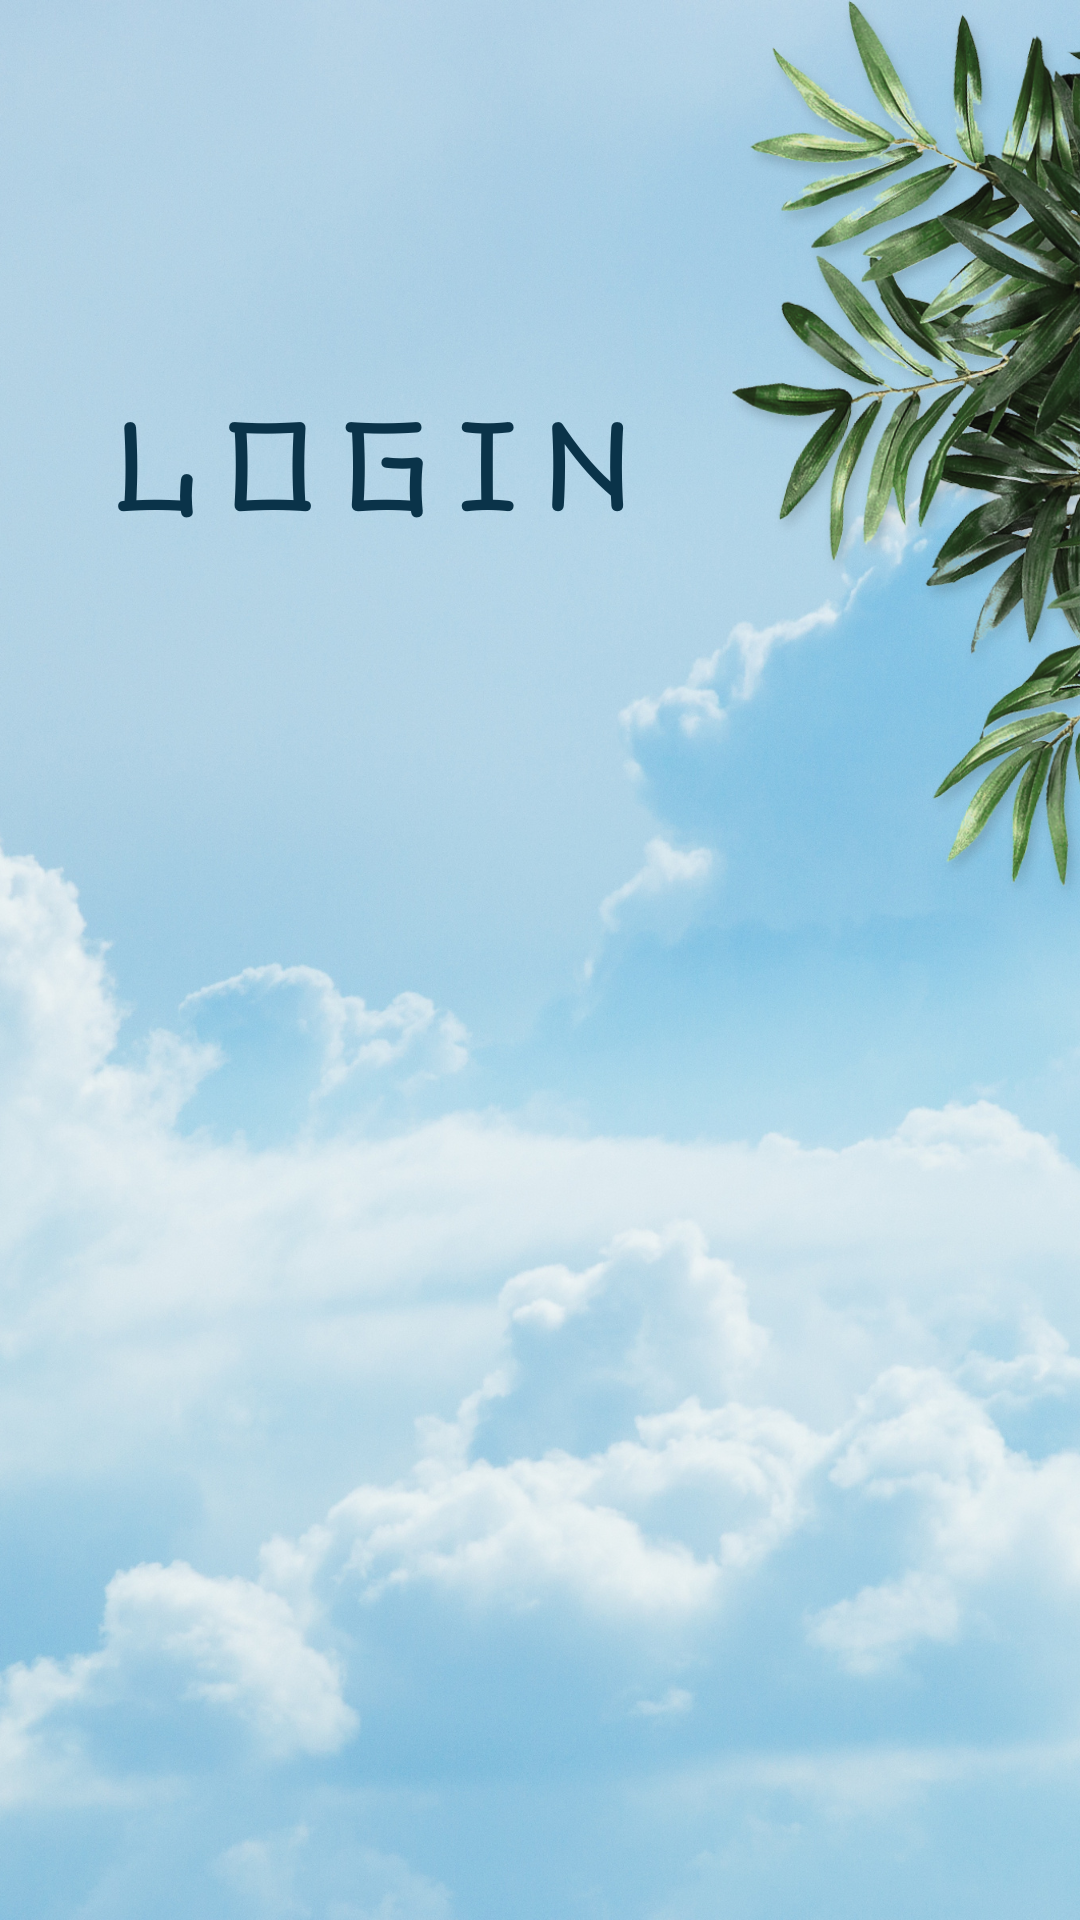
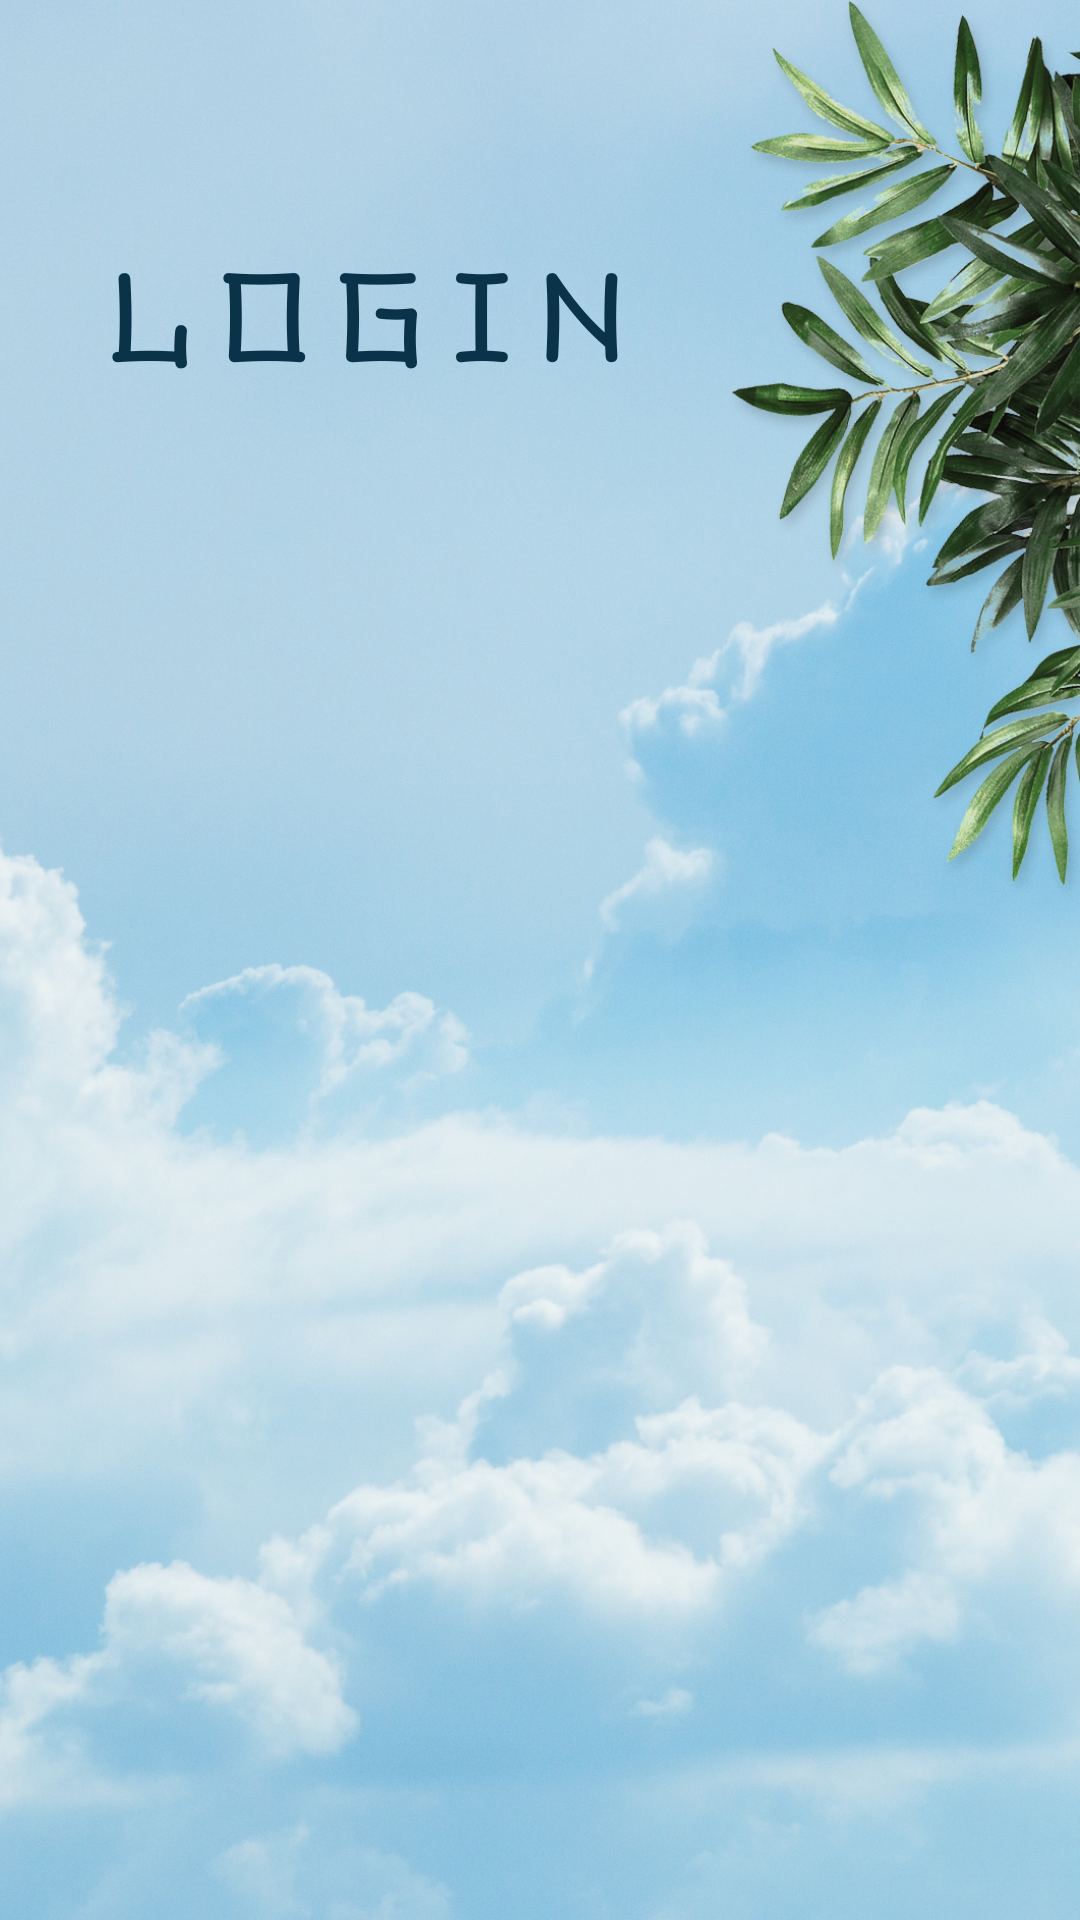
fix bug BG slide

diff --git a/lib/app/modules/login/sign_in/views/sign_in_view.dart b/lib/app/modules/login/sign_in/views/sign_in_view.dart
@@ -14,21 +14,21 @@ class SignInView extends GetView<SignInController> {
   @override
   Widget build(BuildContext context) {
     var media = MediaQuery.sizeOf(context);
-    return Scaffold(
-        backgroundColor: Colors.transparent,
-        body: Stack(
-          children: [
-            Image.asset(
-              "assets/img/sign_in_bg.png",
-              height: media.height,
-              fit: BoxFit.cover,
-            ),
-            SingleChildScrollView(
+    return Stack(
+      children: [
+        Image.asset(
+          "assets/img/sign_in_bg.png",
+          height: media.height,
+          fit: BoxFit.fitHeight,
+        ),
+        Scaffold(
+            backgroundColor: Colors.transparent,
+            body: SingleChildScrollView(
               child: SafeArea(
                   child: Column(
                 children: [
                   SizedBox(
-                    height: media.height * 0.5,
+                    height: media.height * 0.28,
                   ),
                   Container(
                     margin: const EdgeInsets.symmetric(horizontal: 8),
@@ -59,11 +59,15 @@ class SignInView extends GetView<SignInController> {
                                 height: 4,
                               ),
                               TextField(
+                                onTapOutside: (_) =>
+                                    FocusScope.of(context).unfocus(),
                                 controller: controller.txtMobils,
                                 keyboardType: TextInputType.phone,
                                 style: const TextStyle(
                                     fontSize: 18, fontWeight: FontWeight.w600),
                                 decoration: InputDecoration(
+                                    contentPadding: const EdgeInsets.fromLTRB(
+                                        20.0, 15.0, 20.0, 15.0),
                                     prefixIcon: GestureDetector(
                                         onTap: () async {
                                           final code = await controller
@@ -101,11 +105,18 @@ class SignInView extends GetView<SignInController> {
                                             ],
                                           ),
                                         )),
+                                    enabledBorder: InputBorder.none,
+                                    focusedBorder: InputBorder.none,
                                     border: InputBorder.none,
                                     hintText: "Mobile Number",
                                     hintStyle: TextStyle(
                                         color: TColor.placeholder,
                                         fontSize: 17)),
+                              ),
+                              Container(
+                                width: double.maxFinite,
+                                height: 1,
+                                color: TColor.secondaryText,
                               ),
                               const SizedBox(
                                 height: 4,
@@ -134,9 +145,9 @@ class SignInView extends GetView<SignInController> {
                   )
                 ],
               )),
-            )
-          ],
-        ));
+            )),
+      ],
+    );
   }
 
   List<Padding> signOnButton() => SingleSignOnViewModel()
